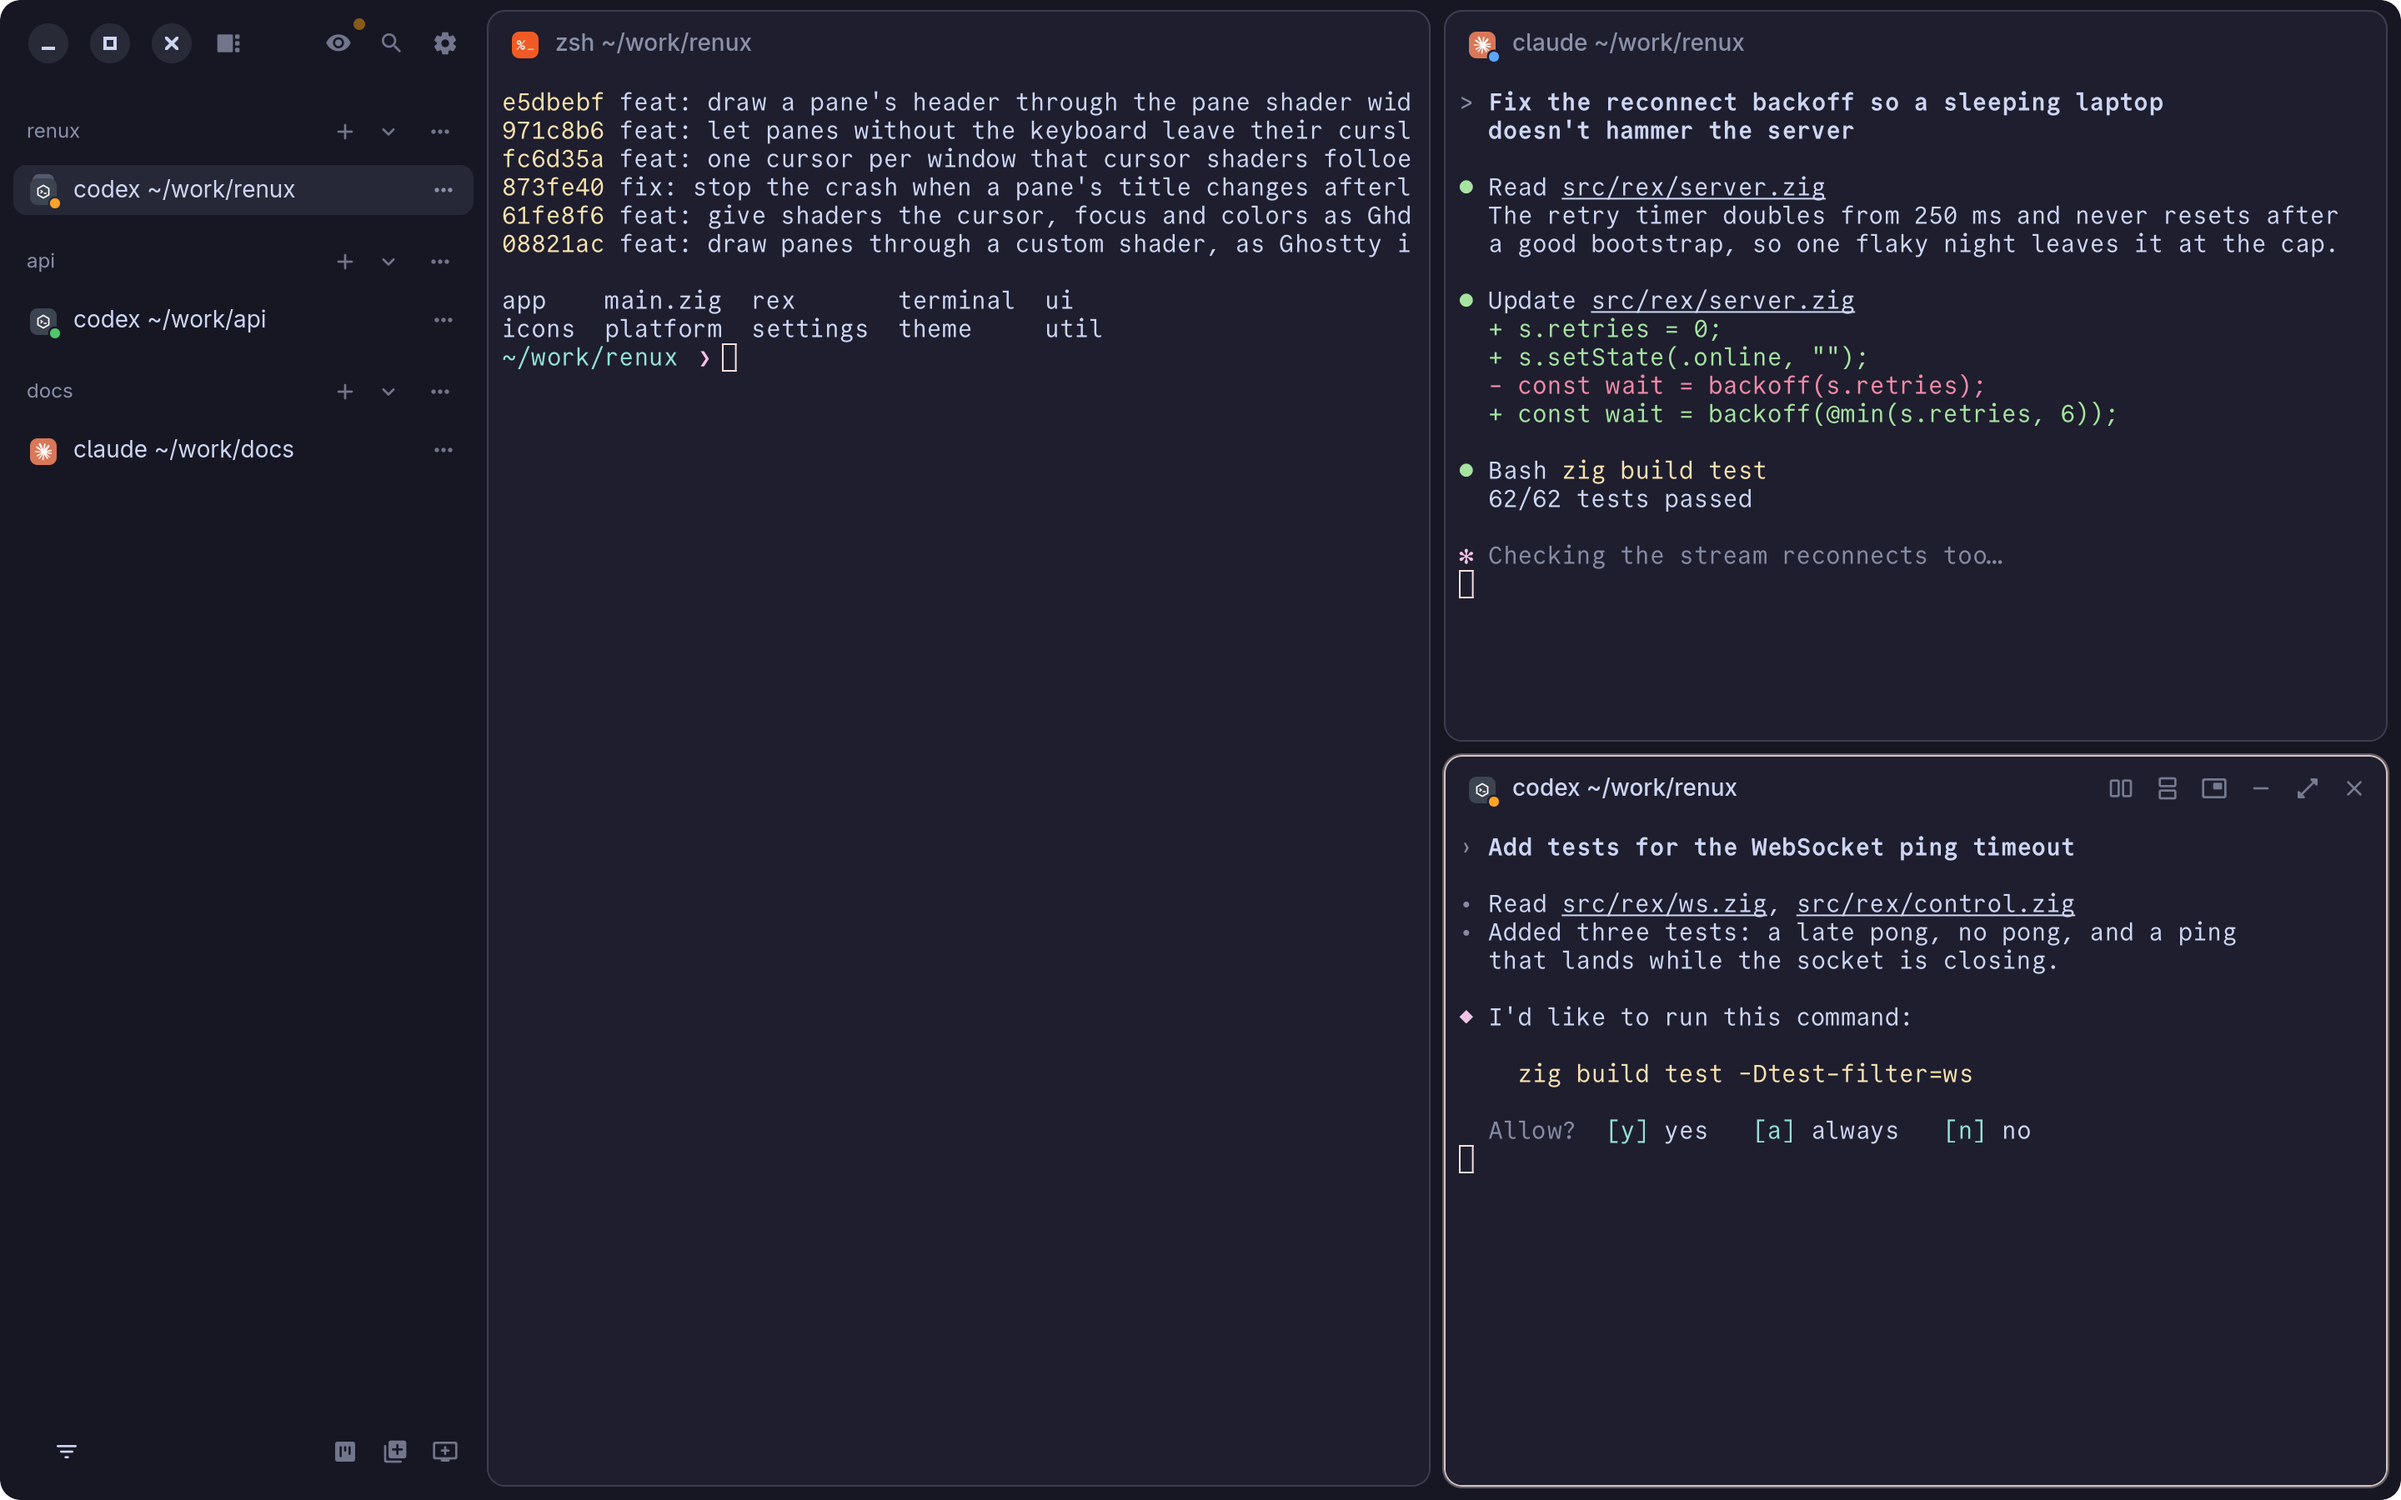
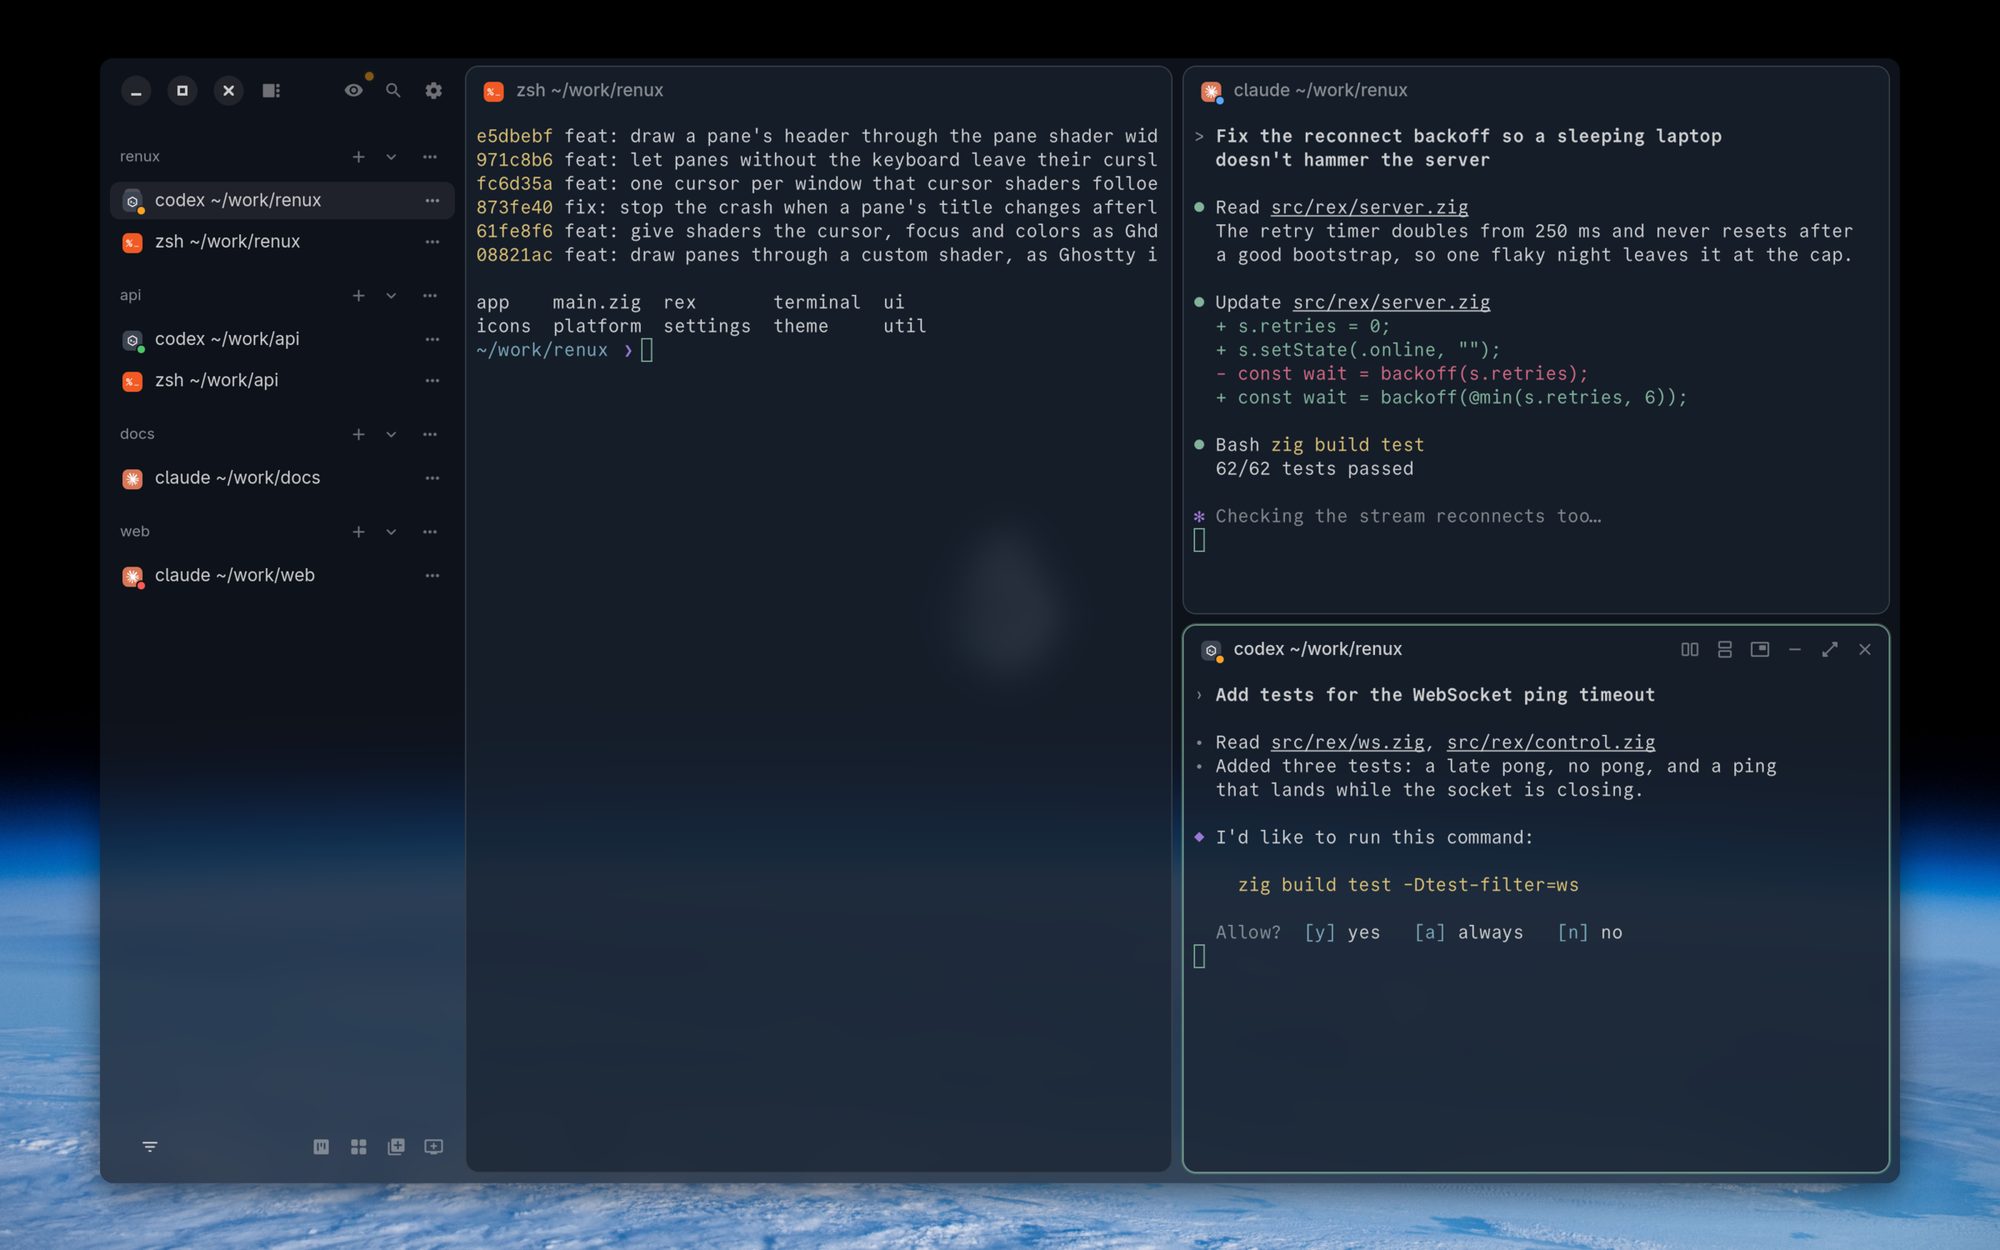
docs: retake the screenshots over a wallpaper, show the overview in place of the agents list, and say how to bind the new keys

diff --git a/README.md b/README.md
@@ -9,7 +9,7 @@ through libghostty-vt.
 Renux is an independent project, not made by the Rex team. It is early, so expect rough edges,
 and please report them as [issues](https://github.com/zenodea/renux/issues).
 
-![Three panes side by side: a shell, and two coding agents at work](docs/screenshots/panes.png)
+![Renux over a desktop wallpaper: a sidebar of sessions, a shell, and two coding agents at work](docs/screenshots/panes.png)
 
 ## What it does
 
@@ -17,18 +17,23 @@ and please report them as [issues](https://github.com/zenodea/renux/issues).
   are the same here, in the Rex app and on a phone. Key bindings come from your Rex config.
 - **Fast terminals.** Text is drawn with libghostty-vt, with selection, find, links, box
   drawing, and your own font and theme.
-- **An eye on your agents.** Panes running coding agents show what they are doing. The agent
-  board sorts them into Idle, Running, Attention and Done; the eye in the sidebar lists only
-  agents, with a dot when one needs you.
+- **Every tab at once.** The overview zooms out from the tab you are on to a grid of all your
+  tabs, each drawn as its live terminals. A dot on a tab shows what each agent in it is doing.
+  Pick a tab and it zooms back in.
+- **Only the terminals.** Full screen mode hides the sidebar, the title rows and the window's
+  own background, so the panes fill the window.
+- **Your agents at a glance.** Panes running coding agents show what they are doing, and the
+  agent board sorts them into Idle, Running, Attention and Done.
 - **Several servers.** Connect to more than one Rex server, on this computer or over Tailscale,
-  and be told when one could be updated.
+  and be told when one could be updated. Remote hosts can answer to this computer's keys and
+  keep their own colors.
 - **Made to look at.** Themes, a see-through window with the desktop's blur behind it, and
   custom GLSL shaders as in Ghostty: ten ship with Renux, from a CRT to a cursor that smears as
   it moves.
 
-| The agent board | Only agents in the sidebar |
+| The overview | The agent board |
 |---|---|
-| ![Agents sorted into four columns by state](docs/screenshots/board.png) | ![The sidebar listing each agent with its task and state](docs/screenshots/agents.png) |
+| ![Six tabs in a grid, each showing its terminals, with a dot for each agent's state](docs/screenshots/overview.png) | ![Agents sorted into four columns by state](docs/screenshots/board.png) |
 
 ![The Settings window on its Themes page](docs/screenshots/settings.png)
 
@@ -59,10 +64,24 @@ see [Rex's installation guide](https://www.superlogical.com/rex/docs/linux/insta
    it asks for your Rex server's address.
 
 `renux --toggle` shows or hides the running window, for a desktop shortcut.
-`renux --version` prints the version.
+Settings are kept in `~/.config/renux`.
 
-The program is called `renux`, and its desktop ID is `dev.renux`. Settings are kept in
-`~/.config/renux`.
+## Keys
+
+Key bindings come from your Rex config, so the keys you know work here. Renux adds two actions
+of its own to bind there:
+
+```lua
+rex.bind("ctrl+a>shift+o", "client.overview.toggle")   -- every tab at once
+rex.bind("ctrl+a>shift+f", "client.fullscreen.toggle") -- only the terminals
+```
+
+Both are in the command palette too, and the overview has a button at the foot of the sidebar.
+In the overview, the arrow keys or `h` `j` `k` `l` move between tabs, Enter goes to one and
+Escape goes back.
+
+A remote host answers to its own Rex config. For the same keys everywhere, turn on
+Settings > Remote Hosts > Use this computer's keys on remote hosts.
 
 ## Building
 
@@ -76,30 +95,6 @@ zig build test
 
 The program is `zig-out/bin/renux`. Add `-Ddev` for the development hooks: screenshots, the
 test script and the frame log.
-
-On a Mac with Homebrew, for development, point pkg-config at Homebrew first:
-
-```sh
-export PKG_CONFIG_PATH=/opt/homebrew/lib/pkgconfig:/opt/homebrew/share/pkgconfig
-```
-
-## Layout
-
-| Path | What it holds |
-|---|---|
-| `src/main.zig` | Where the program starts |
-| `src/app/` | The window and its actions, start-up, local server and pairing pages |
-| `src/ui/` | Panes and their cards, the agent board, the activity panel, the palette and other dialogs, find, hover cards |
-| `src/terminal/` | The terminal widget, the terminal model on libghostty-vt, keys, links, fonts |
-| `src/rex/` | The Rex protocol: control connection, output streams, WebSocket, layout model |
-| `src/settings/` | Settings, their window, shortcuts and the theme editor |
-| `src/theme/` | Colors and built-in themes |
-| `src/icons/` | Interface and program icons, and how they are drawn |
-| `src/platform/` | Parts for one operating system only |
-| `src/util/` | Small helpers: JSON, drawing, subprocesses, QR codes |
-| `data/` | What is installed beside the program: desktop file, app icons, fonts, program icons, shaders |
-| `scripts/` | Generators for the icon tables in `src/icons/` |
-| `third_party/ghostty` | Ghostty, for its terminal library |
 
 ## License
 
